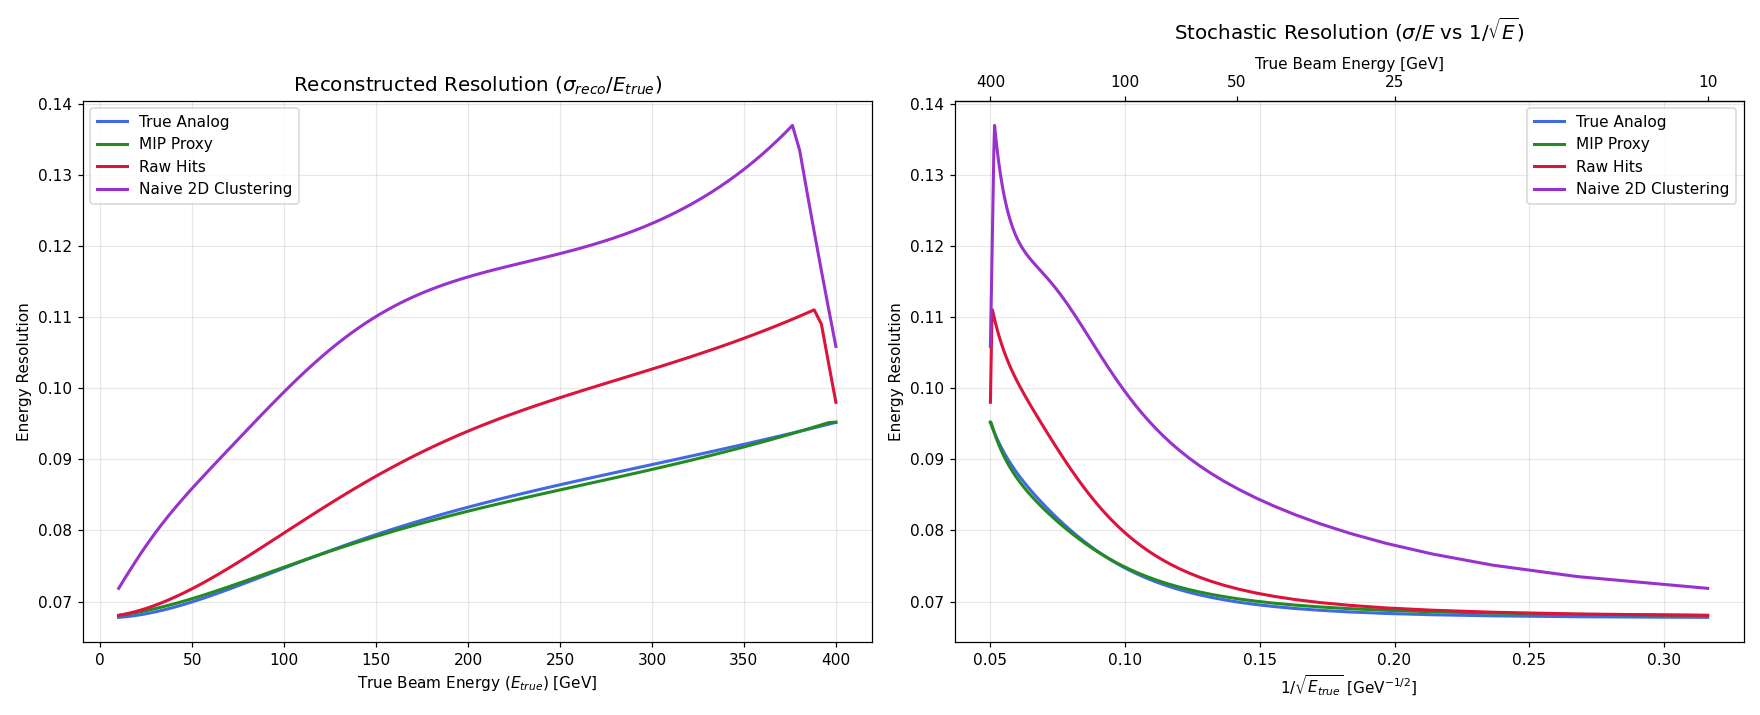
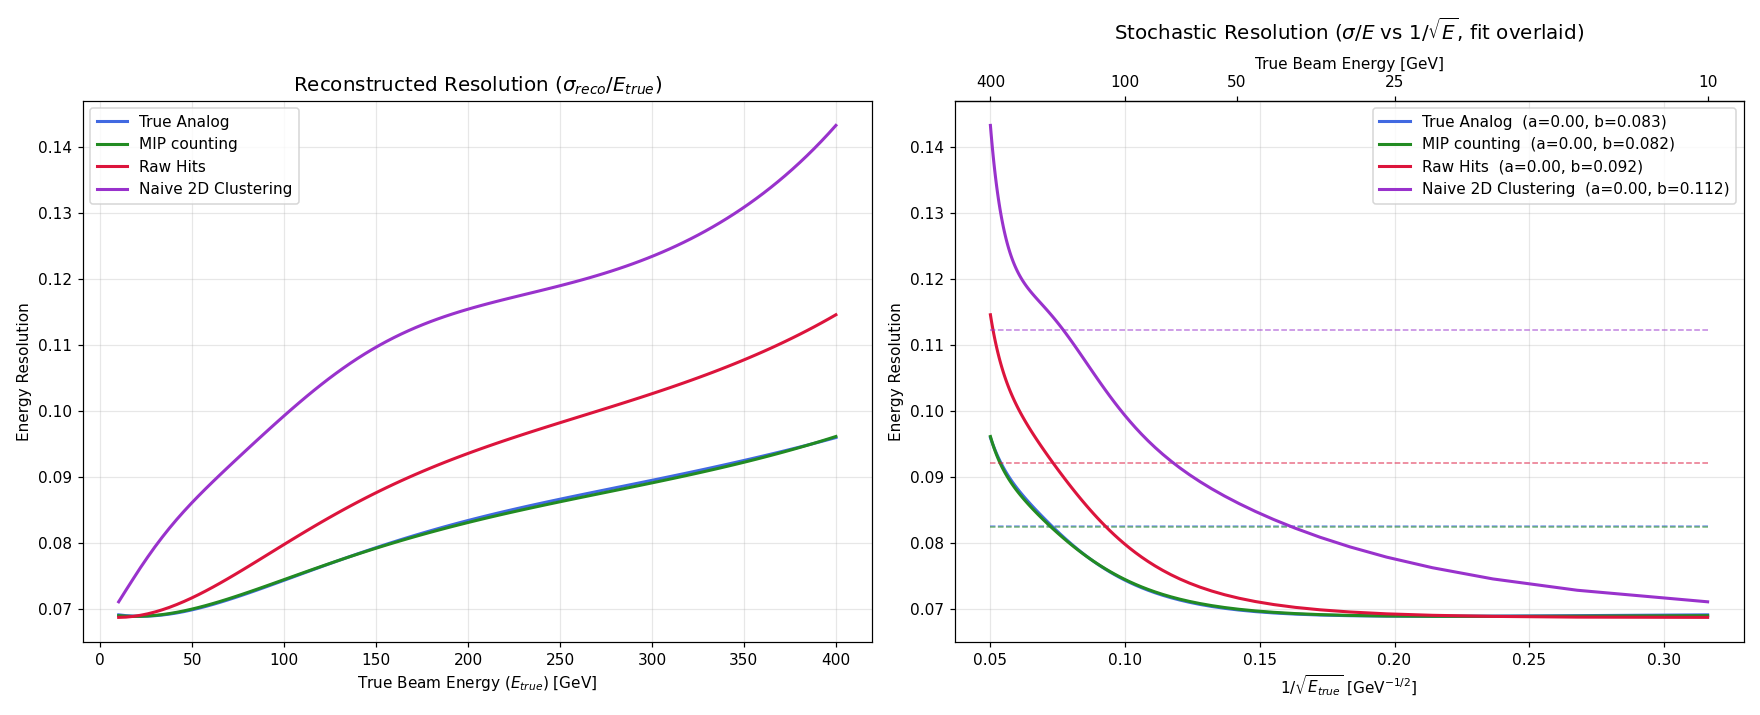
handbook/figures: corrected resolution numbers + inversion
The resolution down-turn at high E was a brentq bracket-clipping artifact, not a
saturation knee: with the fixed invert_brent the curves rise monotonically across
10-400 GeV. Updated §738/§739 (Hits/Cluster rise to ~0.113/~0.14 at 400 GeV, not a
peak near 380), §743 (the a/sqrtE(+)b(+)c/E fit degenerates to a~0 -- resolution is
constant/saturation-dominated, b~0.08 Analog/MIP to ~0.11 Cluster, not stochastic),
and the §12 snippet; regenerated dashboard figures (gamma, canonical ensembles).

diff --git a/docs/handbook.md b/docs/handbook.md
@@ -687,21 +687,23 @@ Only needed in **Path B**. In Path A (JupyterLab UI), the kernel spawns without 
 
 Use the trained ensemble as a surrogate. For a measured readout `y_obs`, find the `E_true` whose predicted readout matches.
 
-[`analysis/dashboard.py`](../analysis/dashboard.py) uses **Brent's method** with graceful clipping:
+[`analysis/dashboard.py`](../analysis/dashboard.py) uses **Brent's method**, extending the bracket (and returning `NaN` rather than clipping) when the surrogate saturates:
 
 ```python
-def invert_brent(y_obs, f_curve, lo=5.0, hi=450.0):
+def invert_brent(y_obs, f_curve, lo=5.0, hi=450.0, hi_max=5000.0):
     def objective(e):
         return float(f_curve(e)) - y_obs
-    try:
-        return brentq(objective, lo, hi)
-    except ValueError:
-        return hi if objective(hi) < 0 else lo
+    if objective(lo) > 0.0:          # y_obs below the curve at lo -> physical floor
+        return lo
+    h = hi
+    while objective(h) < 0.0 and h < hi_max:
+        h *= 2.0                     # extend the upper bracket through saturation
+    if objective(h) < 0.0:
+        return float("nan")          # genuinely cannot bracket -> drop the point
+    return brentq(objective, lo, h)
 ```
 
-Brent is O(log n) on a monotonic surrogate. When the digital surrogate saturates at high E, Brent can't bracket a root → we clip to the boundary instead of crashing.
-
-If you see weird kinks at the high-E end of the dashboard, switch back to pure grid search to confirm it's not an inversion artifact.
+Brent is O(log n) on a monotonic surrogate. An earlier version clipped to a fixed `hi=450` when it couldn't bracket — which made the resolution curve *turn over* at the top of the grid, an inversion artifact that mimicked a saturation knee. Extending the bracket / returning `NaN` fixes that: the reported curve covers only the energies where both band edges truly invert, and rises monotonically through the saturation regime.
 
 ### 12.1 The Neyman crossover
 
@@ -735,12 +737,12 @@ where ⊕ is quadrature sum, *a* = stochastic, *b* = constant, *c* = electronic 
 **Reconstructed Resolution + Stochastic** (panels 2 + 3):
 
 - **True Analog** and **MIP Proxy** overlap; rise from σ/E ≈ 0.07 at 10 GeV to ≈ 0.095 at 400 GeV. Best readouts at all energies. MIP tracks analog tightly because at 100 µm pitch each MIP-crossing reliably triggers one hit.
-- **Raw Hits** tracks analog at low E, **diverges upward starting around 100 GeV**, peaks at σ/E ≈ 0.113 near 380 GeV. **Pixel saturation** — exactly the DECAL physics.
-- **Naive 2D Clustering** is the worst, peaking at σ/E ≈ 0.137. The cluster *count* saturates as the dense core merges adjacent pixels into a few big blobs, so it doesn't recover the lost multiplicity.
+- **Raw Hits** tracks analog at low E, **diverges upward from ~100 GeV**, rising monotonically to σ/E ≈ 0.113 at 400 GeV. **Pixel saturation** — exactly the DECAL physics.
+- **Naive 2D Clustering** is the worst, rising to σ/E ≈ 0.14 at 400 GeV. The cluster *count* saturates as the dense core merges adjacent pixels into a few big blobs, so it doesn't recover the lost multiplicity.
 
 The crossover where Hits start losing to Analog at 100 µm pitch is **around 100 GeV**.
 
-Stochastic panel: Analog/MIP flatten at high E (low 1/√E) at σ/E ≈ 0.07 — non-zero constant *b* ≈ 0.07. Hits and Cluster curve *upward* on the right (high E) — saturation contributing as an effective non-constant constant term.
+Stochastic panel: all four σ/E *rise* with energy, so a fit to a/√E ⊕ b ⊕ c/E degenerates to *a* ≈ 0 (no stochastic 1/√E term) — the resolution is constant/saturation-dominated, with constant term *b* ≈ 0.08 (Analog/MIP) rising to ≈ 0.11 (Cluster). Hits and Cluster climb most steeply at high E (low 1/√E) — pixel saturation.
 
 **Suggested experiment**: pixel-pitch scan (25 / 50 / 100 / 200 µm). The "saturation knee vs pitch" curve is a publishable result.
 